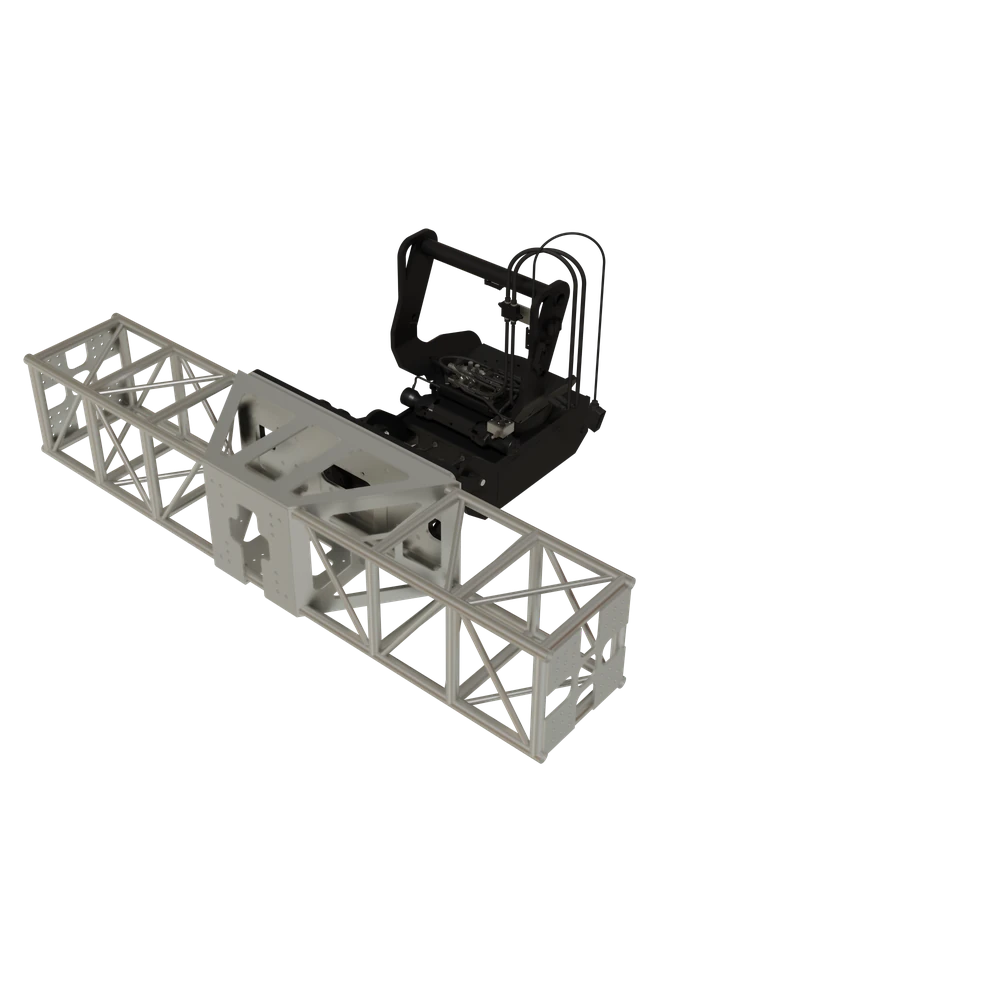
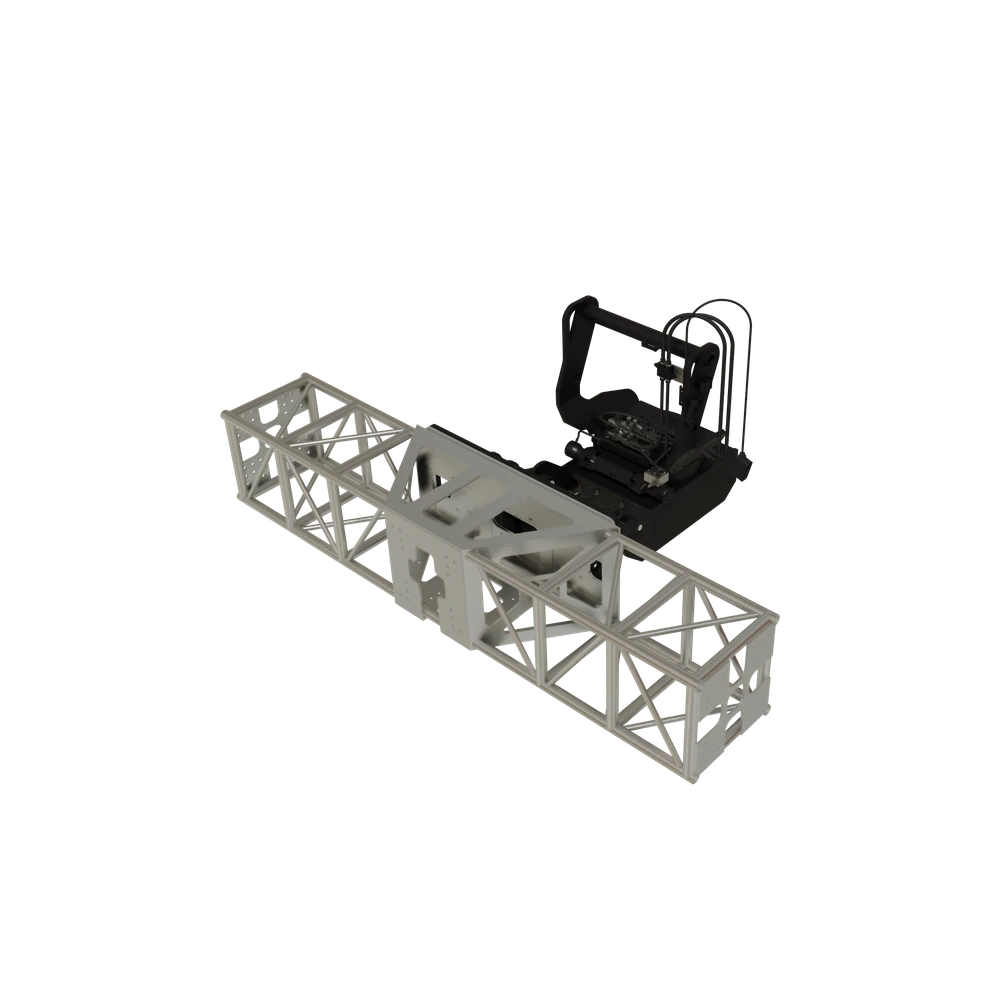
feat: 3D cards on All Equipment, cache the viewer, fix Magni fleet images
- All Equipment cards run each modelled head live in 3D, as on the home
  page; they re-attach after every filter or search redraw
- Cache headers for the 3D viewer: engine 30 days, models 1 day with
  background revalidation, so it downloads once across pages
- Fleet: Magni TH6.20 and TH5.5 used a Wix crop that cut off the boom and
  chassis of the portrait photos; they now show the whole machine
- Re-frame the Romastor 4D-Film still to match the other heads

Changed region(s): [[0.031, 0.217, 0.775, 0.806]]

diff --git a/aaa-telehandler-viewer/site-buttons.js b/aaa-telehandler-viewer/site-buttons.js
@@ -301,16 +301,7 @@
 
     const style = document.createElement('style');
     style.textContent = `
-.aaa-card3d{position:absolute;inset:0;z-index:0;transition:transform .6s cubic-bezier(.16,1,.3,1)}
-.aaa-card3d iframe{position:absolute;inset:0;width:100%;height:100%;border:0;background:transparent;pointer-events:none;opacity:0;transition:opacity .6s cubic-bezier(.16,1,.3,1)}
-.aaa-card3d.ready iframe{opacity:1}
-.aaa-card3d i{position:absolute;left:50%;top:50%;width:90px;height:2px;margin:-1px 0 0 -45px;background:var(--rs);overflow:hidden;transition:opacity .4s}
-.aaa-card3d i::after{content:"";position:absolute;inset:0;width:40%;background:var(--s);animation:aaaCardLoad 1.1s ease-in-out infinite}
-.aaa-card3d.ready i{opacity:0}
-@keyframes aaaCardLoad{from{transform:translateX(-100%)}to{transform:translateX(250%)}}
-.attach-card:hover .aaa-card3d{transform:scale(1.06)}
 .attach-media .attach-idx{z-index:1}
-.attach-media img.aaa-off{visibility:hidden}
 /* seven cards leave the last one alone on its row: it spans the row as a wide card instead */
 @media (min-width:681px){
   .attach-grid>.attach-card.aaa-wide{grid-column:1/-1;display:grid!important;grid-template-columns:var(--aaa-wide-cols,1fr 2fr);align-items:center}
@@ -320,29 +311,65 @@
 @media (min-width:681px) and (max-width:1024px){.attach-grid>.attach-card.aaa-wide{--aaa-wide-cols:1fr 1fr}}`;
     document.head.appendChild(style);
 
-    const cards = [];
+    const live = liveCards();
     for (const a of grid.querySelectorAll('.attach-card')) {
       const cid = new URL(a.getAttribute('href'), location.href).searchParams.get('id');
-      if (!CARD_IDS.includes(cid)) continue;
-      const media = a.querySelector('.attach-media'), img = media.querySelector('img');
-      const gif = img.getAttribute('src') || 'images/attachments/romastor-4d-film.webp';
-      img.removeAttribute('src');   // stops the 20 MB GIF download; it comes back only if the 3D fails
-      img.classList.add('aaa-off');
-      const box = document.createElement('div');
-      box.className = 'aaa-card3d';
-      box.innerHTML = '<i></i>';
-      media.prepend(box);
-      cards.push({ id: cid, box, img, gif, frame: null, api: null, near: false, seen: false });
+      if (CARD_IDS.includes(cid)) live.add(a.querySelector('.attach-media'), cid);
     }
+  }
+
+  /* All Equipment: the same live cards. The page draws its cards from equipment.json and redraws
+     them on every filter or search, so cards are matched by name and picked up again after each redraw. */
+  async function equipmentCards() {
+    if (!hasWebGL() || matchMedia('(prefers-reduced-motion: reduce)').matches) return;
+    let items = [];
+    try { items = (await (await fetch('/content/equipment.json')).json()).items || []; } catch { return; }
+    const slugOf = new Map(items.map((i) => [String(i.name).trim(), i.slug]));
+    const style = document.createElement('style');
+    style.textContent = '.card-media .brand-chip{z-index:2}';
+    document.head.appendChild(style);
+    const live = liveCards();
+    const scan = () => {
+      for (const c of document.querySelectorAll('.card')) {
+        const media = c.querySelector('.card-media');
+        const cid = slugOf.get(c.querySelector('h3')?.textContent.trim());
+        if (media && CARD_IDS.includes(cid) && !media.querySelector('.aaa-card3d')) live.add(media, cid);
+      }
+    };
+    scan();
+    let queued = false;
+    new MutationObserver(() => { if (!queued) { queued = true; requestAnimationFrame(() => { queued = false; scan(); live.prune(); }); } })
+      .observe(document.body, { childList: true, subtree: true });
+  }
+
+  /* One viewer per card in card mode (no telehandler, no controls): created when the card nears the
+     screen, paused when it leaves, unloaded when it is far away, so only a couple run at once. The
+     viewer's files are cached, so moving between the home page and All Equipment doesn't fetch them again. */
+  function liveCards() {
+    if (!document.getElementById('aaa-card3d-css')) {
+      const style = document.createElement('style');
+      style.id = 'aaa-card3d-css';
+      style.textContent = `
+.aaa-card3d{position:absolute;inset:0;z-index:0;transition:transform .6s cubic-bezier(.16,1,.3,1)}
+.aaa-card3d iframe{position:absolute;inset:0;width:100%;height:100%;border:0;background:transparent;pointer-events:none;opacity:0;transition:opacity .6s cubic-bezier(.16,1,.3,1)}
+.aaa-card3d.ready iframe{opacity:1}
+.aaa-card3d i{position:absolute;left:50%;top:50%;width:90px;height:2px;margin:-1px 0 0 -45px;background:var(--rs);overflow:hidden;transition:opacity .4s}
+.aaa-card3d i::after{content:"";position:absolute;inset:0;width:40%;background:var(--s);animation:aaaCardLoad 1.1s ease-in-out infinite}
+.aaa-card3d.ready i{opacity:0}
+@keyframes aaaCardLoad{from{transform:translateX(-100%)}to{transform:translateX(250%)}}
+.attach-card:hover .aaa-card3d,.card:hover .aaa-card3d{transform:scale(1.06)}
+img.aaa-off{visibility:hidden}`;
+      document.head.appendChild(style);
+    }
+    let cards = [];
     const card = (el) => cards.find((c) => c.box === el);
-    const sync = (c) => { if (c.api) c.api.pause(!c.seen); };
+    const sync = (c) => { if (c.api) c.api.pause(document.hidden || !c.seen); };
     const load = (c) => {
       if (c.frame) return;
       c.frame = document.createElement('iframe');
       c.frame.title = '';
       c.frame.setAttribute('aria-hidden', 'true');
       c.frame.tabIndex = -1;
-      c.frame.loading = 'eager';
       c.frame.src = `${BASE}index.html?a=${encodeURIComponent(c.id)}&card`;
       c.box.appendChild(c.frame);
     };
@@ -351,6 +378,11 @@
       c.frame.remove();
       c.frame = c.api = null;
       c.box.classList.remove('ready');
+    };
+    const restore = (c) => {   // the picture is still better than an empty card
+      unload(c);
+      c.box.remove();
+      if (c.img) { c.img.src = c.gif; c.img.classList.remove('aaa-off'); }
     };
     addEventListener('message', (e) => {
       const c = cards.find((x) => x.frame && e.source === x.frame.contentWindow);
@@ -361,25 +393,42 @@
         c.api.play();
         sync(c);
       }
-      if (e.data.type === 'aaa-viewer:error') {   // the GIF is still better than an empty card
-        unload(c);
-        c.box.remove();
-        c.img.src = c.gif;
-        c.img.classList.remove('aaa-off');
-      }
+      if (e.data.type === 'aaa-viewer:error') restore(c);
     });
     // load a little before a card scrolls in; drop it once it is well off screen
     const nearObs = new IntersectionObserver((es) => es.forEach((e) => {
-      const c = card(e.target); c.near = e.isIntersecting;
-      if (c.near) load(c); else unload(c);
+      const c = card(e.target); if (!c) return;
+      if (e.isIntersecting) load(c); else unload(c);
     }), { rootMargin: '600px 0px' });
-    const seenObs = new IntersectionObserver((es) => es.forEach((e) => { const c = card(e.target); c.seen = e.isIntersecting; sync(c); }));
-    cards.forEach((c) => { nearObs.observe(c.box); seenObs.observe(c.box); });
-    document.addEventListener('visibilitychange', () => cards.forEach((c) => { if (c.api) c.api.pause(document.hidden || !c.seen); }));
+    const seenObs = new IntersectionObserver((es) => es.forEach((e) => { const c = card(e.target); if (c) { c.seen = e.isIntersecting; sync(c); } }));
+    document.addEventListener('visibilitychange', () => cards.forEach(sync));
+    return {
+      add(media, id) {
+        const img = media.querySelector('img');
+        const gif = img?.getAttribute('src') || 'images/attachments/romastor-4d-film.webp';
+        if (img) { img.removeAttribute('src'); img.classList.add('aaa-off'); }   // stops the 20 MB GIF download
+        const box = document.createElement('div');
+        box.className = 'aaa-card3d';
+        box.innerHTML = '<i></i>';
+        media.prepend(box);
+        cards.push({ id, box, img, gif, frame: null, api: null, seen: false });
+        nearObs.observe(box);
+        seenObs.observe(box);
+      },
+      // cards the page has redrawn away: stop watching them and free their viewers
+      prune() {
+        cards = cards.filter((c) => {
+          if (c.box.isConnected) return true;
+          unload(c); nearObs.unobserve(c.box); seenObs.unobserve(c.box);
+          return false;
+        });
+      },
+    };
   }
 
   const path = location.pathname.replace(/\/$/, '');
   const id = new URLSearchParams(location.search).get('id');
   if (/\/item(\.html)?$/.test(path)) { if (MODELLED.includes(id)) itemDemo(id); }
   else if (path === '' || path === '/index.html') { floatingButton(); homeCards(); }
+  else if (/\/equipment(\.html)?$/.test(path)) equipmentCards();
 })();

diff --git a/index.html b/index.html
@@ -516,8 +516,8 @@
       <a class="fleet-card card-link" href="item.html?id=manitou-mrt-2660-e" style="text-decoration:none;color:inherit;cursor:pointer;"><img loading="lazy" decoding="async" src="https://static.wixstatic.com/media/5f3620_3137f6b58b4f4452ba59ced6061bb963~mv2.png/v1/fill/w_720,h_540,q_85,enc_auto/file.png" alt="Manitou MRT 2660 Electric" /><h4>MRT 2660 E</h4><div class="meta">6T &middot; 26M</div></a>
       <a class="fleet-card card-link" href="item.html?id=manitou-mrt-2660" style="text-decoration:none;color:inherit;cursor:pointer;"><img loading="lazy" decoding="async" src="https://static.wixstatic.com/media/5f3620_1f02fa6e88c1477e955643e6d3012f62~mv2.png/v1/fill/w_720,h_540,q_85,enc_auto/file.png" alt="Manitou MRT 2660" /><h4>MRT 2660</h4><div class="meta">6T &middot; 26M</div></a>
       <a class="fleet-card card-link" href="item.html?id=manitou-mrt-2150" style="text-decoration:none;color:inherit;cursor:pointer;"><img loading="lazy" decoding="async" src="https://static.wixstatic.com/media/5f3620_564efbee064e49d1a69c3095baa2a9fe~mv2.png/v1/fill/w_720,h_540,q_85,enc_auto/file.png" alt="Manitou MRT 2150" /><h4>MRT 2150</h4><div class="meta">5T &middot; 21M</div></a>
-      <a class="fleet-card card-link" href="item.html?id=magni-th6-20" style="text-decoration:none;color:inherit;cursor:pointer;"><img loading="lazy" decoding="async" src="https://static.wixstatic.com/media/5f3620_e6cb996c098b41369c04e6692a81cccf~mv2.png/v1/fill/w_720,h_540,q_85,enc_auto/file.png" alt="Magni TH 6.20" /><h4>Magni TH6.20</h4><div class="meta">Telehandler</div></a>
-      <a class="fleet-card card-link" href="item.html?id=magni-th-5-5-19" style="text-decoration:none;color:inherit;cursor:pointer;"><img loading="lazy" decoding="async" src="https://static.wixstatic.com/media/5f3620_73de96345117431b8f3e07c6cc01bedd~mv2.png/v1/fill/w_720,h_540,q_85,enc_auto/file.png" alt="Magni TH 5.5 19" /><h4>Magni TH5.5</h4><div class="meta">Telehandler</div></a>
+      <a class="fleet-card card-link" href="item.html?id=magni-th6-20" style="text-decoration:none;color:inherit;cursor:pointer;"><img loading="lazy" decoding="async" src="https://static.wixstatic.com/media/5f3620_e6cb996c098b41369c04e6692a81cccf~mv2.png/v1/fit/w_720,h_540,q_85,enc_auto/file.png" alt="Magni TH 6.20" /><h4>Magni TH6.20</h4><div class="meta">Telehandler</div></a>
+      <a class="fleet-card card-link" href="item.html?id=magni-th-5-5-19" style="text-decoration:none;color:inherit;cursor:pointer;"><img loading="lazy" decoding="async" src="https://static.wixstatic.com/media/5f3620_73de96345117431b8f3e07c6cc01bedd~mv2.png/v1/fit/w_720,h_540,q_85,enc_auto/file.png" alt="Magni TH 5.5 19" /><h4>Magni TH5.5</h4><div class="meta">Telehandler</div></a>
     </div>
     <div class="fleet-hint" id="fleet-hint">Scroll to explore the fleet</div>
   </div>
